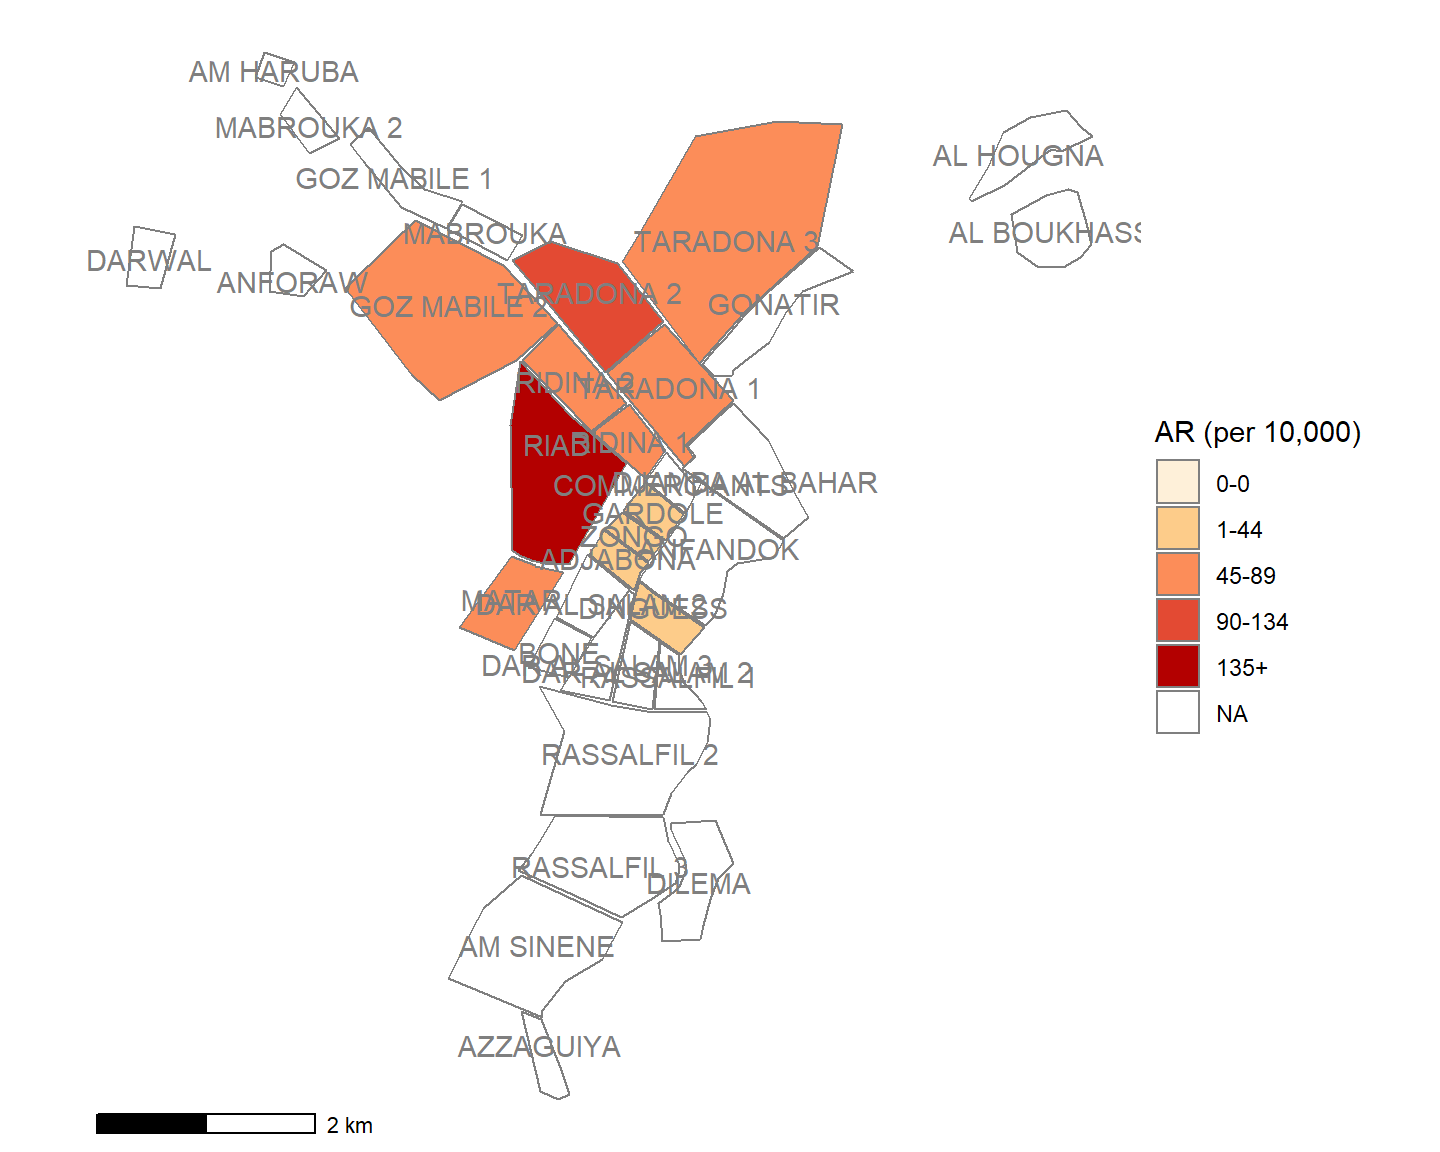
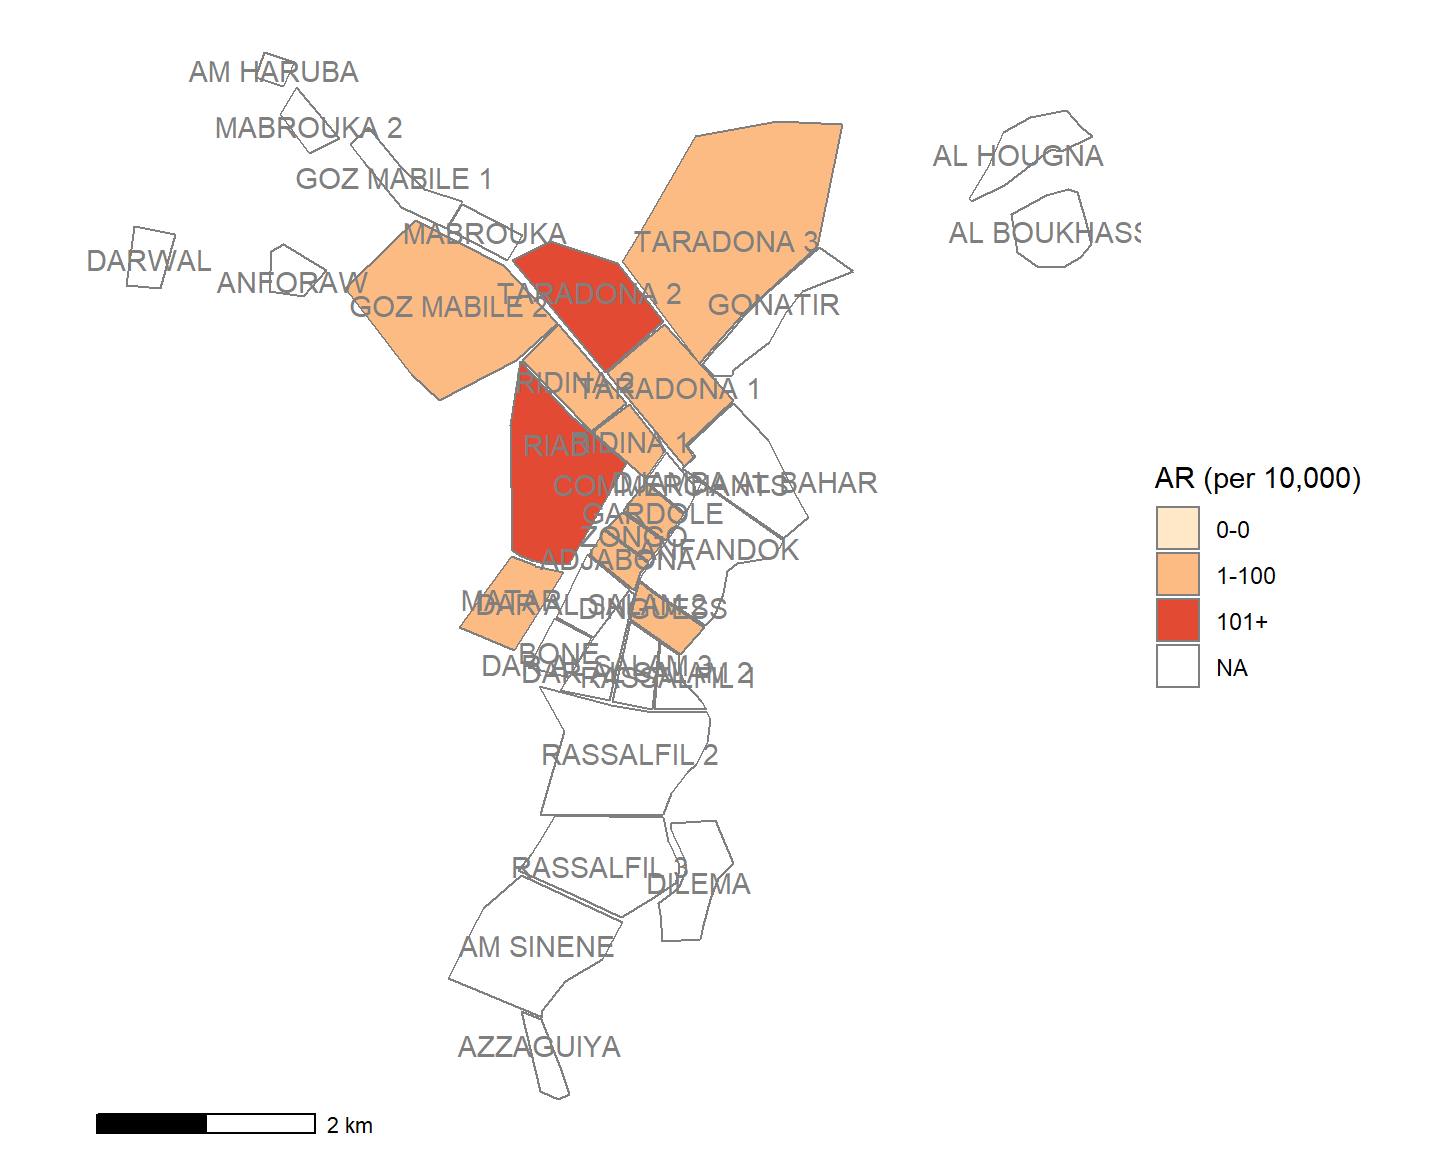
Fixing place_analyses with new breakers code

Changed region(s): [[0.25, 0.0938, 0.5938, 0.5625], [0.7812, 0.3438, 0.9375, 0.625]]

diff --git a/content/training/Walk-through/place_analyses.html b/content/training/Walk-through/place_analyses.html
@@ -2405,24 +2405,26 @@ map &lt;- st_set_crs(map, value = 4326) # Sets to WGS84</code></pre>
 </ol>
 <pre class="r"><code>## create a categorical variable for plotting 
 max_ar    &lt;- max(ar_region$`Upper 95%CI`, na.rm = TRUE) # define your highest AR
-breakers &lt;- as.integer(c(0, # include zero as a standalone group
-             find_breaks(max_ar, breaks = 4, by = 100) # four breaks rounded to the nearest 100
-             ))</code></pre>
-<pre><code>## Error in find_breaks(max_ar, breaks = 4, by = 100): unused argument (by = 100)</code></pre>
-<pre class="r"><code>## add a categorical variable using the age_categories function 
+
+breakers &lt;- as.integer(c(
+                         # include zero as a standalone group
+                         0, 
+                         # 1 to 4 divisions, snapping the boundaries to the nearest 100
+                         find_breaks(n = max_ar, breaks = 4, snap = 100)
+             ))
+
+## add a categorical variable using the age_categories function 
 ## nb in this case we arent using ages - but it functions the same way!
 ar_map &lt;- mutate(ar_region, 
              categories = age_categories(`AR (per 10,000)`, 
                                          breakers = breakers)
              )</code></pre>
-<pre><code>## Error in age_categories(`AR (per 10,000)`, breakers = breakers): object &#39;breakers&#39; not found</code></pre>
 <p><strong>Join the object <code>map</code> (shapefile) to <code>ar_map</code> (a data frame)</strong>. The spatial object <code>map</code> is joined to the data frame <code>ar_map</code> with a <strong>left join</strong> (see the Advanced R Basics page to learn more about joins). Both of these objects contain tables (you can click them in the Environment pane to see this). In the command, they are linked by the <code>Name</code> variable in <code>ar</code> and the <code>Region</code> variable in <code>map</code>.</p>
 <p><strong>You may need to modify your code so that the join occurs on <code>Name</code> in the object <code>map</code>, and not <code>name</code>.</strong></p>
 <p>{{% notice tip %}} Make sure you modify your <code>left_join</code> code to use “Name” with a capital N, as that is how the variable is spelled in the object ‘map’. In your other data these variable names may be completely different and must be changed {{% /notice %}}</p>
 <p>The resulting object <code>mapsub</code> is a product of this <strong>left join</strong>. A left join will include all values from the Left-hand Side (LHS) and only inlcude values from the Right-hand Side (RHS) if they match to LHS values. Now, the attack rates are joined to the region names and to their GIS geometries. You can verify this by Viewing the object <code>mapsub</code> (click on it in the Environment pane).</p>
 <pre class="r"><code>## join your ar or case counts based on matching shapefile names with regions in your ar table
 mapsub &lt;- left_join(map, ar_map, by = c(&quot;Name&quot; = &quot;Region&quot;))</code></pre>
-<pre><code>## Error in check_join(x, y): object &#39;ar_map&#39; not found</code></pre>
 <p><strong>Now, <code>ggplot()</code> is used to create the map.</strong> Remember that <code>ggplot()</code> subcommands must be connected by plus symbols at the end of each line (<code>+</code>) (except the last line). Read more about ggplot2 and <code>ggplot()</code> in the Advanced R Basics page.</p>
 <p><strong><code>geom_sf()</code></strong> identifies <code>mapsub</code> as providing the data for the map, and filling the polygons by values in the variable <code>categories</code>.</p>
 <p><strong><code>coord_sf()</code></strong> set to <code>NA</code> prevents gridlines from being drawn on the map.</p>
@@ -2442,7 +2444,7 @@ ggplot() +
   scale_fill_brewer(drop = FALSE, palette = &quot;OrRd&quot;, name = &quot;AR (per 10,000)&quot;) + 
   geom_sf_text(data = mapsub, aes(label = Name), colour = &quot;grey50&quot;) + # label polygons
   theme_void() # remove coordinates and axes</code></pre>
-<pre><code>## Error in fortify(data): object &#39;mapsub&#39; not found</code></pre>
+<p><img src="/training/Walk-through/place_analyses_files/figure-html/unnamed-chunk-6-1.png" width="720" /></p>
 <p><strong>You can use this alternative to make the labels not overlap.</strong></p>
 <p><strong><code>ggrepel()</code></strong> arranges point/polygon labels so they do not overlap and are easier to read. You can see more examples of <code>ggrepel()</code> <a href="https://mran.microsoft.com/snapshot/2017-08-20/web/packages/ggrepel/vignettes/ggrepel.html">in this vignette</a></p>
 <p>{{% notice tip %}} The <code>geom_sf_text()</code> line has been replaced by ggrepel. {{% /notice %}}</p>
@@ -2460,7 +2462,7 @@ ggplot() +
                             min.segment.length = 0) +
 
   theme_void()  # remove coordinates and axes</code></pre>
-<pre><code>## Error in fortify(data): object &#39;mapsub&#39; not found</code></pre>
+<p><img src="/training/Walk-through/place_analyses_files/figure-html/unnamed-chunk-7-1.png" width="720" /></p>
 <p>Lastly, <strong>there is an efficient way to create attack rate maps and bar plots of incidence for each epiweek</strong>. Use a <strong>“for loop”</strong> to run the same code for every epi week.</p>
 <p><strong>A “for loop”&quot; is used to iterate over (perform the same actions to) every value in a vector.</strong> In this case, we want to make the map and bar chart for each region. You can read more about for loops in the R Basics - Advanced and Miscellaneous](<a href="https://r4epis.netlify.com/training/r_basics/advanced_functions/" class="uri">https://r4epis.netlify.com/training/r_basics/advanced_functions/</a>) page, or <a href="https://www.datamentor.io/r-programming/for-loop/">this tutorial</a>.</p>
 <p>A few things to note about this chunk:</p>
@@ -2505,8 +2507,11 @@ max_cases &lt;- max(cases$n, na.rm = TRUE) # define the maximum number of cases 
 max_ar    &lt;- max(ar$`Upper 95%CI`, na.rm = TRUE)
 
 ## define breaks for standardising color palette
-breakers &lt;- as.integer(c(0, # include zero as a standalone group
-             find_breaks(max_ar, breaks = 4, snap = 100) # four breaks rounded to nearest 100
+breakers &lt;- as.integer(c(
+                         # include zero as a standalone group
+                         0, 
+                         # 1 to 4 divisions, snapping the boundaries to the nearest 100
+                         find_breaks(n = max_ar, breaks = 4, snap = 100)
              ))
 
 ## add a categorical variable using the age_categories function 
